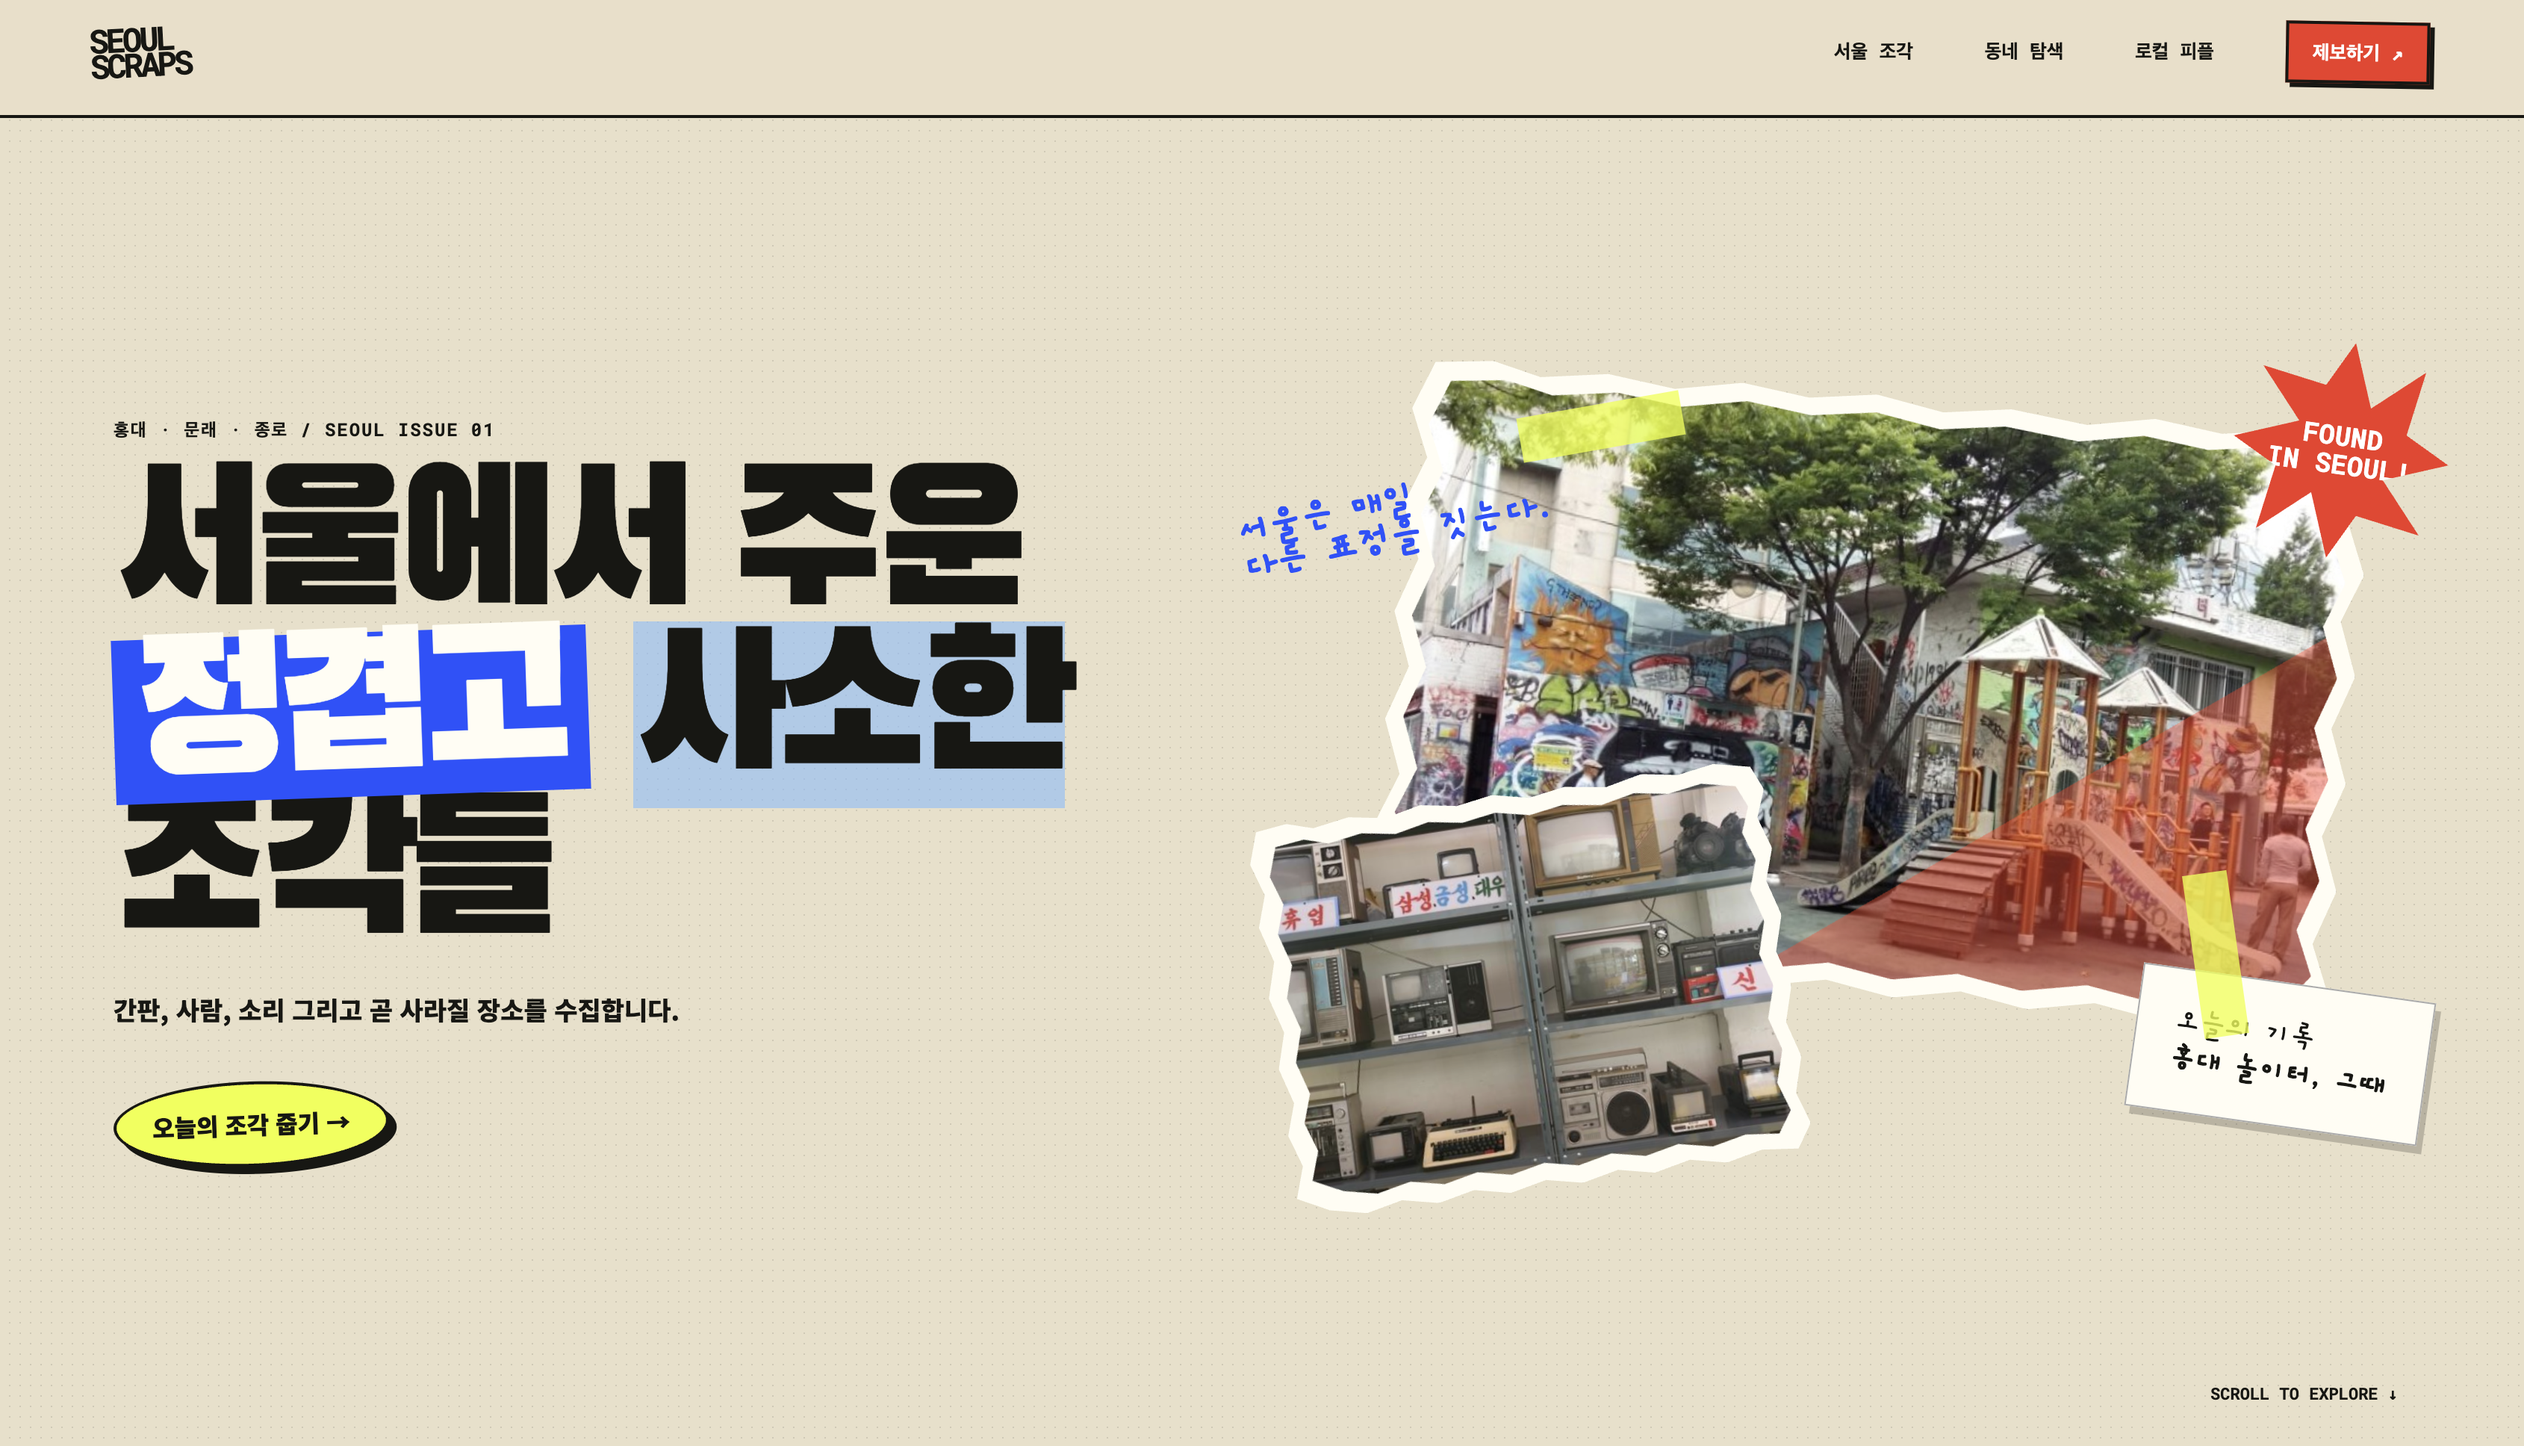
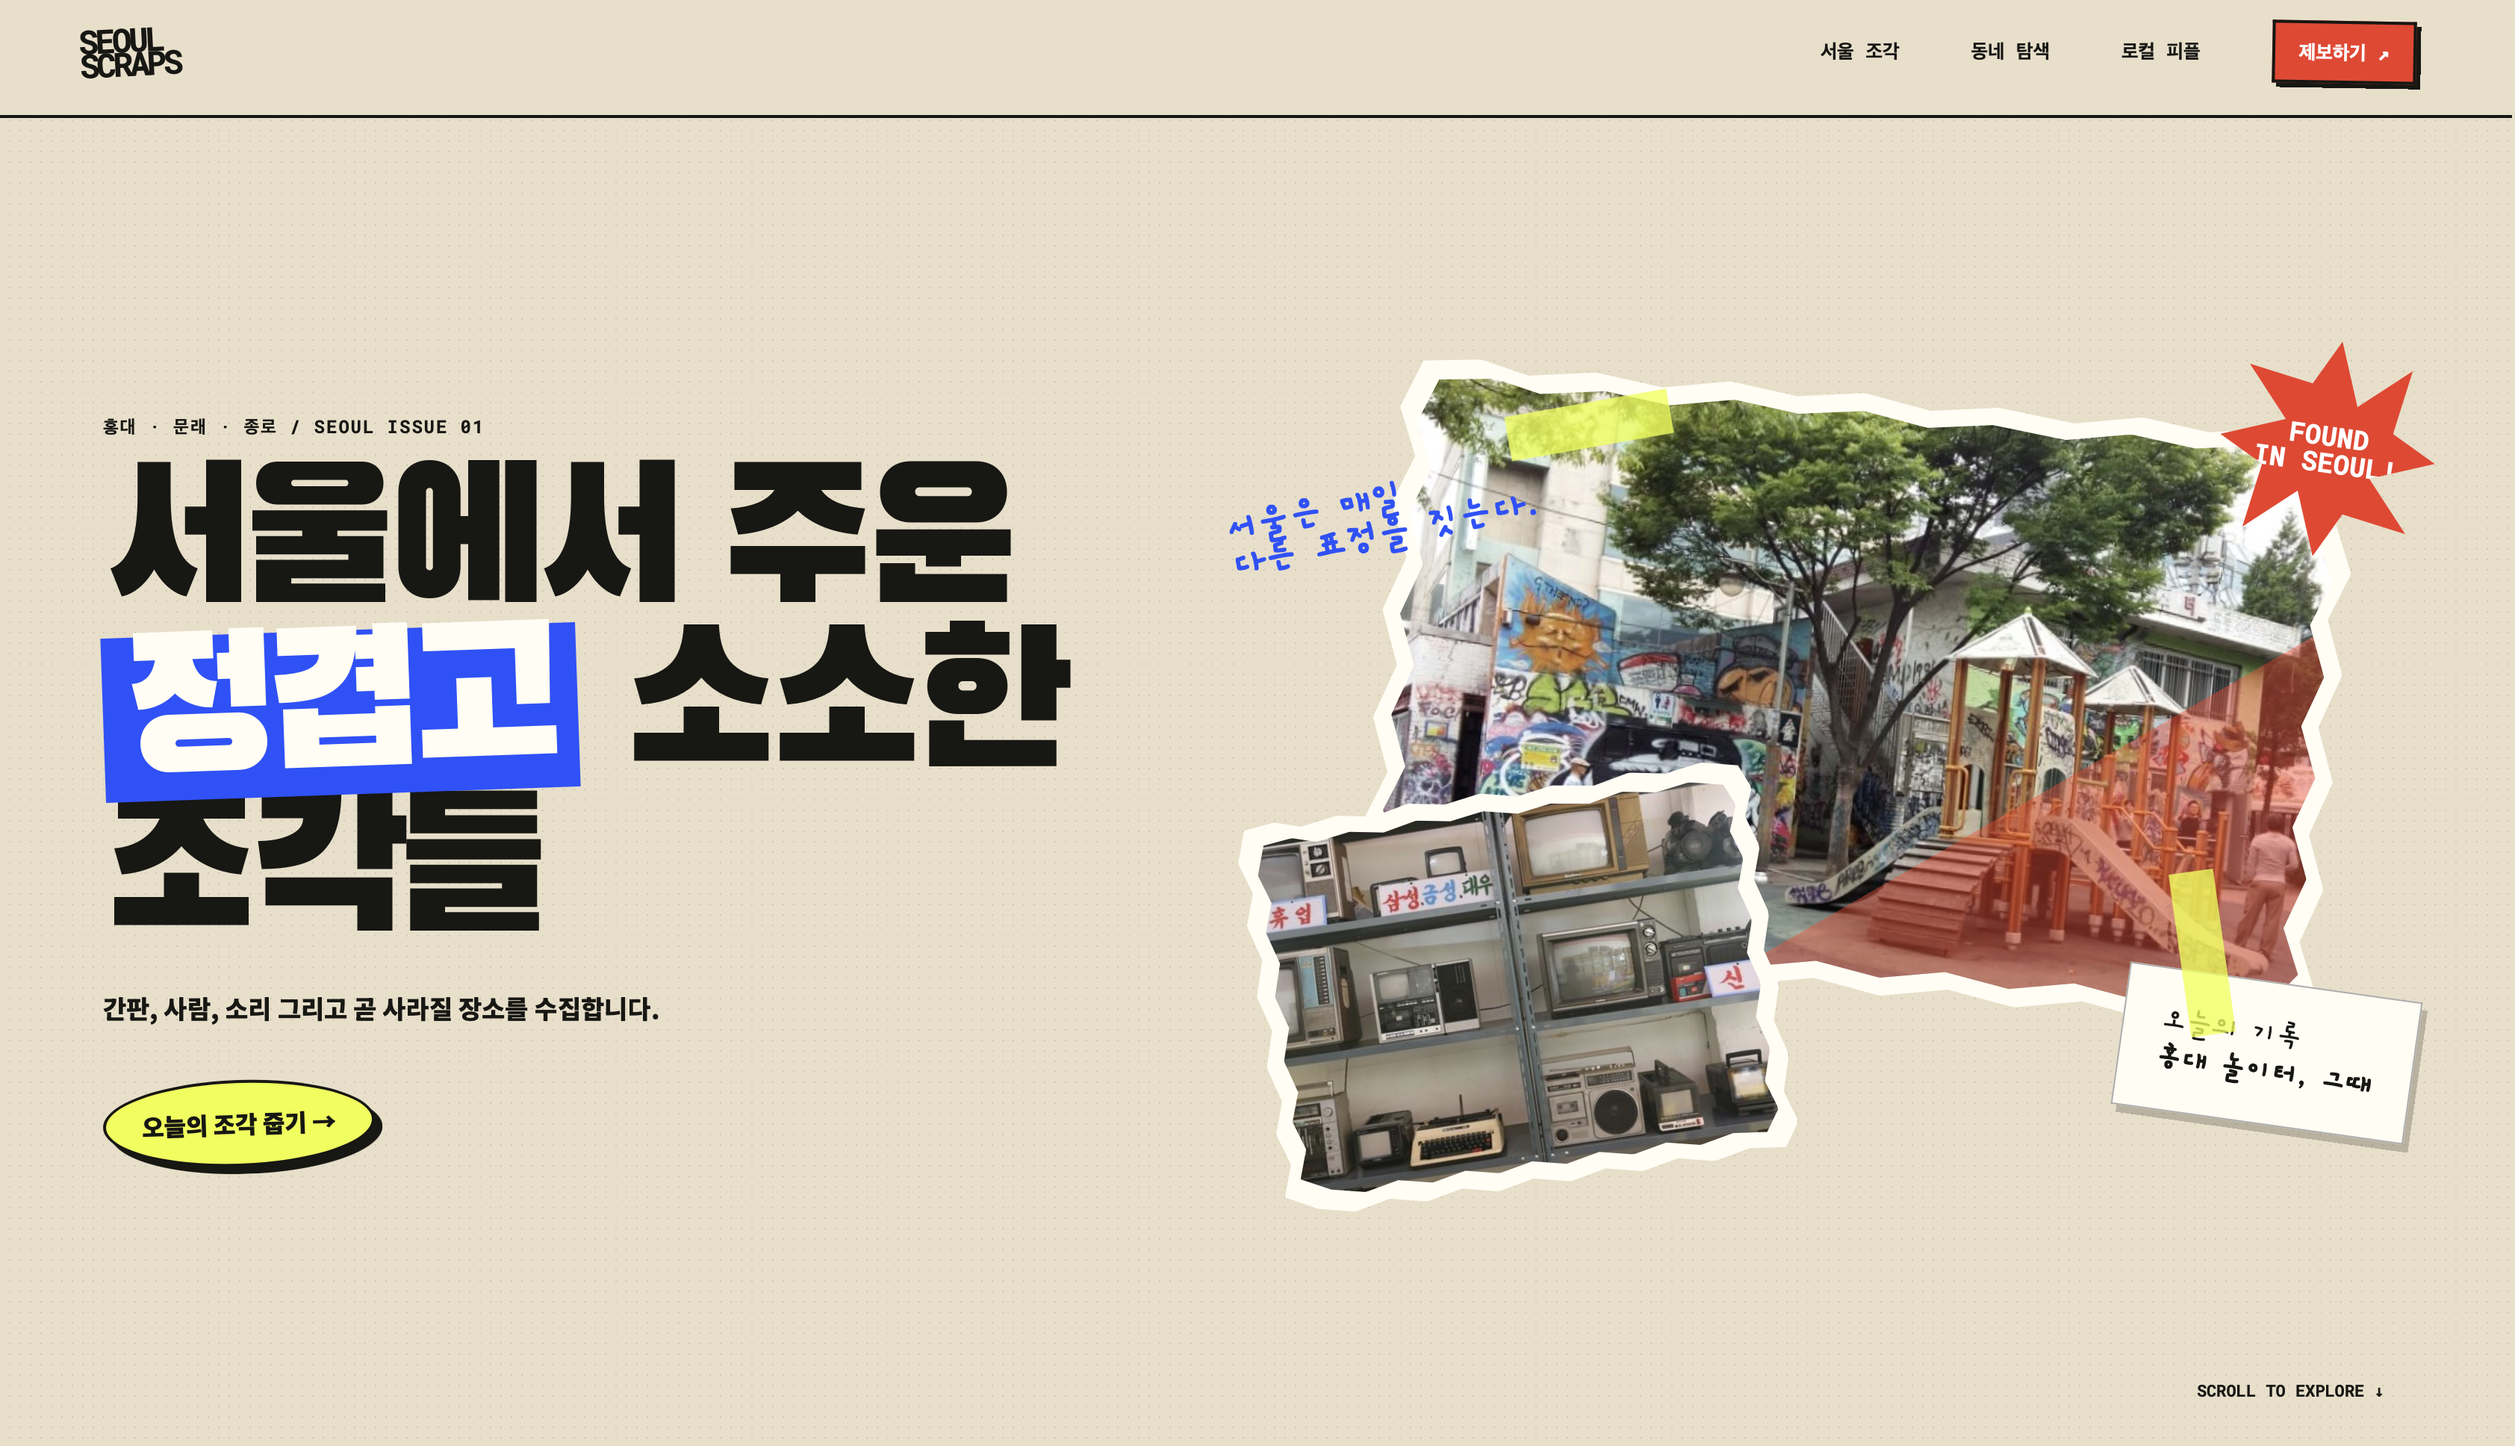
Add files via upload

diff --git a/index.html b/index.html
@@ -180,11 +180,24 @@
     <div class="work_list" id="work_list">
 
       <figure class="work_item" data-project="01">
+        <a class="work_visual" href="https://olovesy.github.io/rockfish_redesign/" target="_blank" rel="noopener noreferrer" aria-label="ROCKFISH WEATHERWEAR 리디자인 보기">
+          <img src="./img/rockfish.png" alt="ROCKFISH WEATHERWEAR 리디자인 메인 화면">
+        </a>
+        <figcaption class="work_info">
+          <div><span class="work_number">01</span><span class="work_type" data-en="PERSONAL · BRAND REDESIGN" data-ko="개인 · 브랜드 리디자인">PERSONAL · BRAND REDESIGN</span></div>
+          <h3>ROCKFISH WEATHERWEAR</h3>
+          <p data-en="A responsive brand redesign that connects Rockfish Weatherwear's feminine mood with a clear product-discovery flow." data-ko="락피쉬의 페미닌한 브랜드 무드와 명확한 제품 탐색 흐름을 연결한 반응형 브랜드 리디자인입니다.">A responsive brand redesign that connects Rockfish Weatherwear's feminine mood with a clear product-discovery flow.</p>
+          <ul aria-label="Technology stack"><li>HTML</li><li>CSS</li><li>JavaScript</li><li>Responsive</li><li>UX/UI</li></ul>
+          <div class="work_links"><a href="https://olovesy.github.io/rockfish_redesign/" target="_blank" rel="noopener noreferrer">LIVE SITE ↗</a></div>
+        </figcaption>
+      </figure>
+
+      <figure class="work_item" data-project="02">
         <a class="work_visual" href="https://olovesy.github.io/SEOULSCRAPS/" target="_blank" rel="noopener noreferrer" aria-label="SEOUL SCRAPS 서울사진수집일지 보기">
           <img src="./img/work_seoul_scraps.png" alt="SEOUL SCRAPS 서울사진수집일지 메인 화면">
         </a>
         <figcaption class="work_info">
-          <div><span class="work_number">01</span><span class="work_type" data-en="PERSONAL · LOCAL MAGAZINE" data-ko="개인 · 로컬 매거진">PERSONAL · LOCAL MAGAZINE</span></div>
+          <div><span class="work_number">02</span><span class="work_type" data-en="PERSONAL · LOCAL MAGAZINE" data-ko="개인 · 로컬 매거진">PERSONAL · LOCAL MAGAZINE</span></div>
           <h3>SEOUL SCRAPS</h3>
           <p data-en="A responsive local culture magazine archiving Seoul's places, everyday objects, and memories through a playful collage UI." data-ko="서울의 장소와 오래된 물건, 기억 속 풍경을 자유로운 콜라주 UI로 기록한 반응형 로컬 문화 매거진입니다.">A responsive local culture magazine archiving Seoul's places, everyday objects, and memories through a playful collage UI.</p>
           <ul aria-label="Technology stack"><li>HTML</li><li>CSS</li><li>JavaScript</li><li>Responsive</li><li>UX/UI</li></ul>
@@ -192,18 +205,6 @@
         </figcaption>
       </figure>
 
-      <figure class="work_item" data-project="02">
-        <a class="work_visual" href="https://olovesy.github.io/02_NORTHTRIDGE_UNITED_Personal_Portfolio/" target="_blank" rel="noopener noreferrer" aria-label="Northridge United 개인 포트폴리오 보기">
-          <img src="./img/work01.png" alt="Northridge United 개인 포트폴리오">
-        </a>
-        <figcaption class="work_info">
-          <div><span class="work_number">02</span><span class="work_type" data-en="PERSONAL · SPORTS WEB" data-ko="개인 · 스포츠 웹">PERSONAL · SPORTS WEB</span></div>
-          <h3>NORTHRIDGE UNITED</h3>
-          <p data-en="Responsive sports club website focused on clear hierarchy and energetic interaction." data-ko="명확한 정보 위계와 역동적인 인터랙션에 집중한 반응형 스포츠 구단 웹사이트입니다.">Responsive sports club website focused on clear hierarchy and energetic interaction.</p>
-          <ul aria-label="Technology stack"><li>HTML</li><li>CSS</li><li>JavaScript</li><li>Interaction</li></ul>
-          <div class="work_links"><a href="https://olovesy.github.io/02_NORTHTRIDGE_UNITED_Personal_Portfolio/" target="_blank" rel="noopener noreferrer">LIVE SITE ↗</a><a href="https://github.com/olovesy/02_NORTHTRIDGE_UNITED_Personal_Portfolio" target="_blank" rel="noopener noreferrer">GITHUB ↗</a></div>
-        </figcaption>
-      </figure>
 
       <figure class="work_item" data-project="03">
         <a class="work_visual" href="https://olovesy.dothome.co.kr/FridgePaper/" target="_blank" rel="noopener noreferrer" aria-label="FridgePaper 프로젝트 보기">
